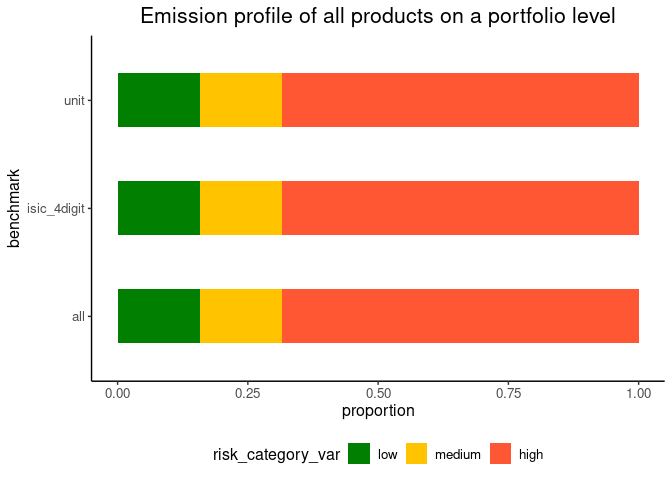
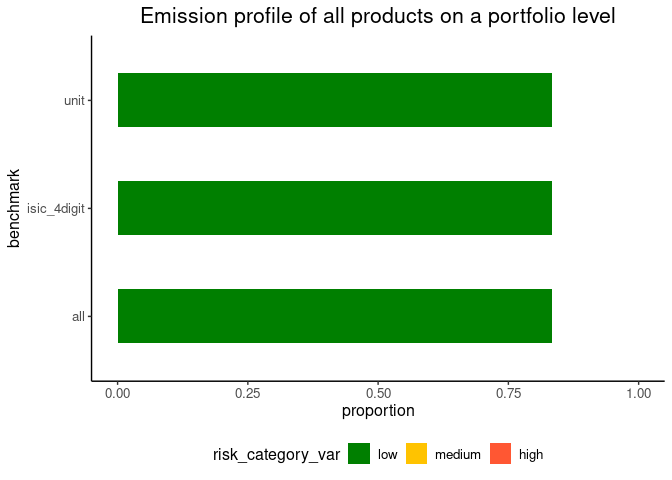
added modes arg for bar plot

Changed region(s): [[0.2812, 0.125, 0.9688, 0.2812], [0.2812, 0.5938, 0.9688, 0.7188], [0.2812, 0.375, 0.9688, 0.5]]

diff --git a/README.md b/README.md
@@ -172,7 +172,7 @@ benchmarks <- c("all", "isic_4digit", "unit")
 
 no_fin |>
   filter(company_name == "peter") |>
-  bar_plot_emission_profile(benchmarks) +
+  bar_plot_emission_profile(benchmarks, mode = "equal_weight") +
   labs(title = "Emission profile of all products on a company level")
 ```
 
@@ -181,8 +181,10 @@ no_fin |>
 Plot on a portfolio level.
 
 ``` r
-bar_plot_emission_profile(no_fin, benchmarks) +
+bar_plot_emission_profile(no_fin, benchmarks, mode = "equal_weight") +
   labs(title = "Emission profile of all products on a portfolio level")
+#> Warning: Removed 48 rows containing missing values or values outside the scale range
+#> (`geom_col()`).
 ```
 
 <img src="man/figures/README-unnamed-chunk-12-1.png" width="100%" />
